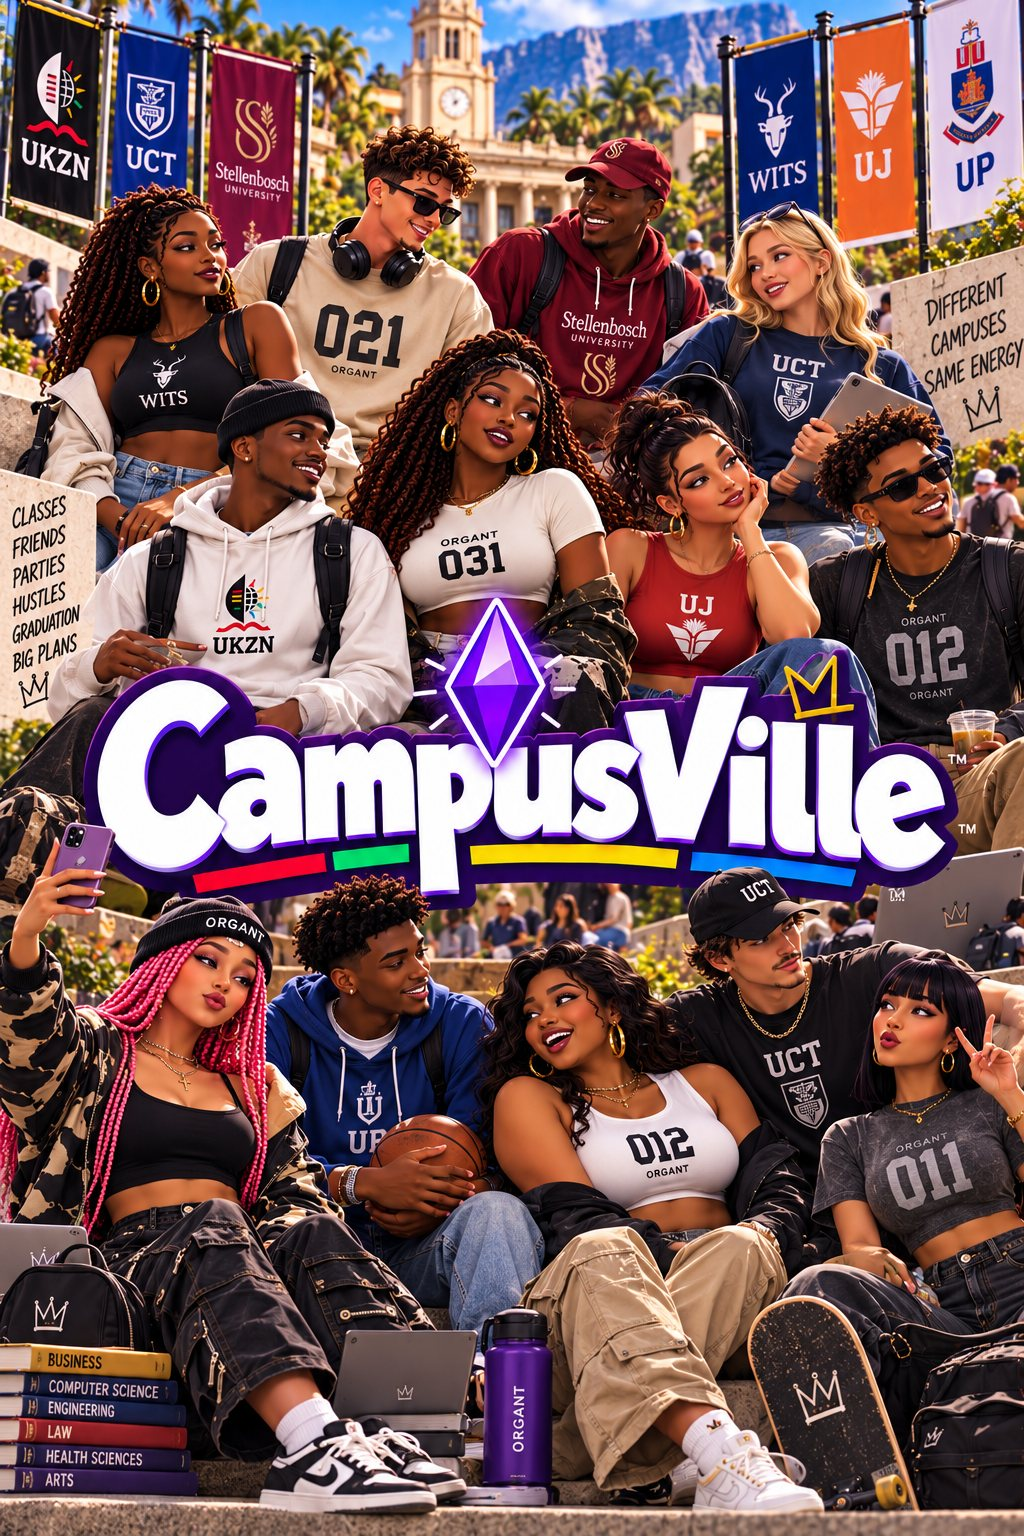
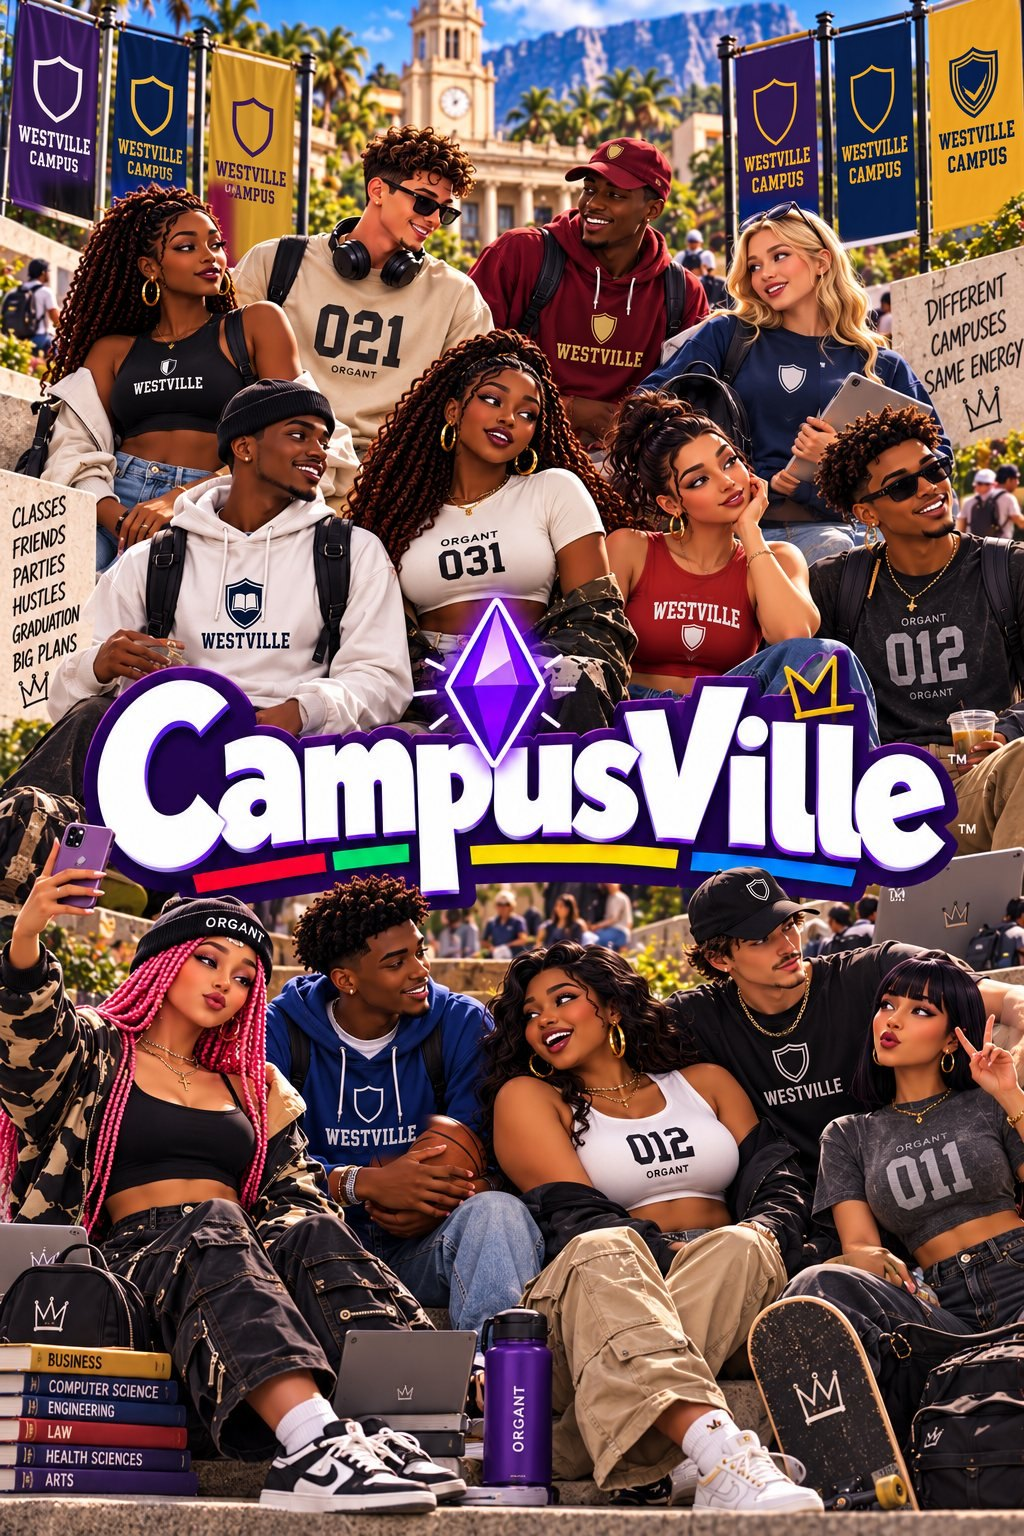
Remove real university branding from cover and data

diff --git a/src/ui/render.js b/src/ui/render.js
@@ -13,7 +13,7 @@ export function esc(value) {
 
 const RES_GROUPS = [
   ['on_campus', 'On campus'],
-  ['off_campus_ukzn_owned', 'UKZN residences'],
+  ['off_campus_campus_owned', 'Campus-owned (off campus)'],
   ['off_campus_leased', 'Leased'],
   ['private_accredited', 'Private accredited'],
   ['other', 'Other'],
